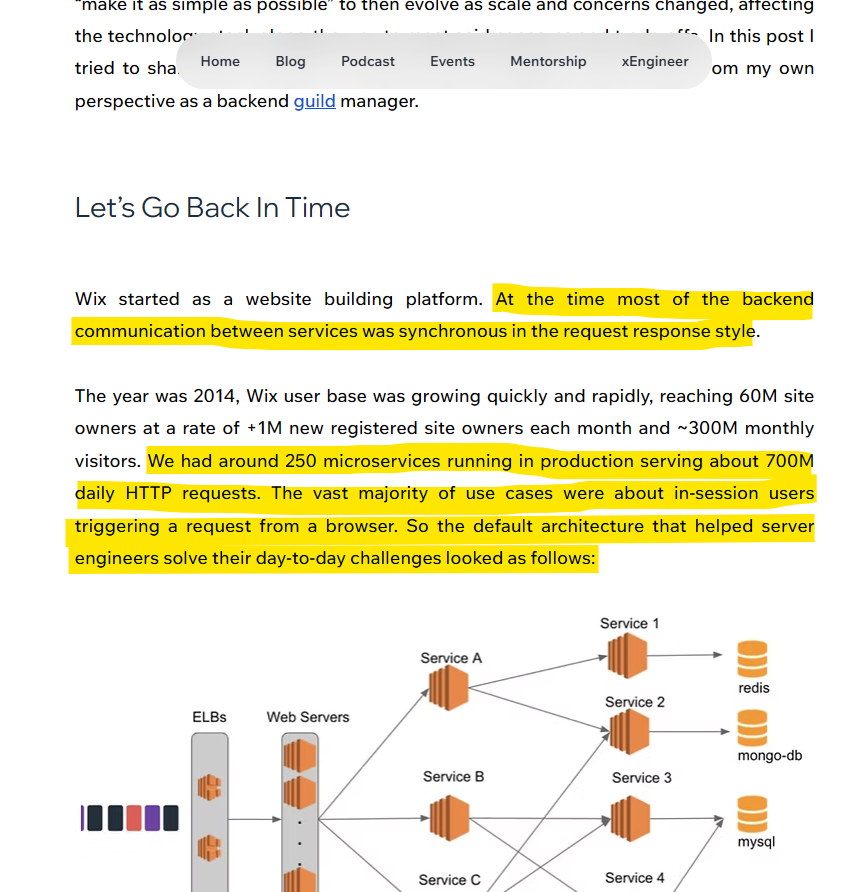
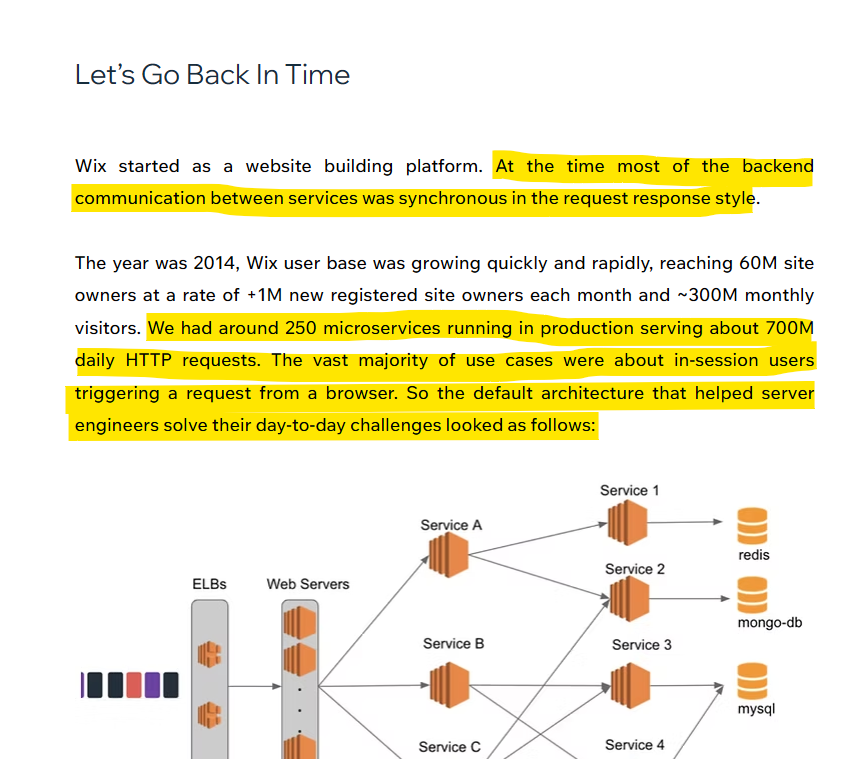
Agrego captura de crecimiento de productores, edito algunas capturas y ajusto el main.tex y referencias.bib

diff --git a/main.tex b/main.tex
@@ -1,5 +1,3 @@
-% FORM-IC-01 — Investigación individual: arquitecturas distribuidas en la industria
-% Caso: Wix — Arquitectura orientada a eventos (EDA) con Apache Kafka
 \documentclass[11pt,a4paper]{article}
 
 \usepackage[utf8]{inputenc}
@@ -16,7 +14,6 @@
 
 \begin{document}
 
-% ---------------- Carátula ----------------
 \begin{titlepage}
   \centering
   {\large Universidad Técnica Estatal de Quevedo\par}
@@ -37,7 +34,6 @@
   {\large Quevedo, noviembre de 2026\par}
 \end{titlepage}
 
-% ---------------- Análisis (1 página) ----------------
 \section*{Descripción del caso}
 Wix es una plataforma para crear sitios web que, con el tiempo, tuvo que adaptar su backend al crecimiento de sus usuarios. En 2014 tenía alrededor de 60 millones de propietarios de sitios y unos 250 microservicios en producción, que atendían cerca de 700 millones de peticiones HTTP al día. Años después, la plataforma llegó a unos 200 millones de propietarios, más de 2000 clústeres de microservicios y alrededor de 500 mil millones de peticiones diarias \cite{perez2021wix}. Este caso analiza cómo cambió la comunicación entre esos microservicios para soportar ese crecimiento.
 
@@ -45,7 +41,7 @@ Wix es una plataforma para crear sitios web que, con el tiempo, tuvo que adaptar
 Antes, la comunicación entre servicios era síncrona y seguía un patrón de orquestación: un servicio, como \textit{BookingService}, controlaba todo el flujo y llamaba a los demás en orden. Era fácil de entender y probar, pero dejaba a los servicios muy acoplados, ya que todos debían estar disponibles al mismo tiempo. Con más tráfico, una falla en un servicio se propagaba a los demás; por ejemplo, \textit{UsersService} llegó a quedarse sin memoria. Por eso, en 2015 Wix incorporó Apache Kafka como bus de mensajes y pasó a un modelo de coreografía, donde cada servicio reacciona a los eventos que le interesan \cite{perez2021wix}.
 
 \section*{Beneficios obtenidos}
-Al publicar eventos, el productor ya no depende de quién los consume, y eso aisló las fallas entre servicios. Kafka funciona como un \textit{buffer} que absorbe los picos de carga, y para escalar basta con agregar consumidores. Entre 2016 y 2021 los productores de Kafka crecieron unas 40 veces y los flujos asíncronos unas 30 veces en cinco años. Además, como Kafka guarda los eventos en un log, un equipo puede crear un nuevo grupo de consumidores para una funcionalidad sin tocar los servicios existentes \cite{perez2021wix}.
+Al publicar eventos, el productor ya no depende de quién los consume, y eso aisló las fallas entre servicios. Kafka funciona como un \textit{buffer} que absorbe los picos de carga, y para escalar basta con agregar consumidores. Entre 2016 y 2021 los productores de Kafka crecieron unas 40 veces. Además, como Kafka guarda los eventos en un log, un equipo puede crear un nuevo grupo de consumidores para una funcionalidad sin tocar los servicios existentes \cite{perez2021wix}.
 
 \section*{Desafíos y cómo los resolvió}
 El cambio trajo más complejidad: rastrear un flujo entre varios servicios es más difícil y los datos tardan en replicarse, por lo que Wix diseñó la interfaz para explicar esas demoras al usuario. Para los mensajes duplicados o fuera de orden, hizo que los consumidores fueran idempotentes. Como el bus se volvió un punto único de falla, creó un productor que guarda primero los eventos en disco local antes de enviarlos a Kafka \cite{perez2021wix}. Estos problemas de consistencia también aparecen como recurrentes en la industria \cite{laigner2021data}.
@@ -55,7 +51,6 @@ Para el PFC tomaría la comunicación por eventos en tareas que no necesitan res
 
 \newpage
 
-% ---------------- Evidencias de autoría ----------------
 \section*{Evidencias de autoría}
 
 \subsection*{Captura de la fuente principal}
@@ -77,8 +72,9 @@ Fragmentos subrayados de la fuente principal \cite{perez2021wix}.
 
 \begin{figure}[h]
   \centering
-  \includegraphics[width=0.8\textwidth]{03_cambio_a_kafka.png}\\[4pt]
-  \includegraphics[width=0.8\textwidth]{03b_cambio_a_kafka.png}
+  \includegraphics[width=0.6\textwidth]{03_cambio_a_kafka.png}\\[4pt]
+  \includegraphics[width=0.6\textwidth]{03b_cambio_a_kafka.png}\\[4pt]
+  \includegraphics[width=0.6\textwidth]{03c_cambio_a_kafka.png}
   \caption{Crecimiento de la plataforma y adopción de Apache Kafka.}
 \end{figure}
 
@@ -102,9 +98,8 @@ Fragmentos subrayados de la fuente principal \cite{perez2021wix}.
 Un ejemplo que conozco es GitHub Actions, que permite automatizar tareas a partir de eventos dentro de un repositorio. Cuando hago un \textit{push} para subir cambios, GitHub detecta ese evento y ejecuta automáticamente un \textit{workflow} que puede correr pruebas, revisar el código o desplegar la aplicación. También pueden activarse notificaciones e integraciones externas, si están configuradas. Lo interesante es que el \textit{push} no espera a que estas tareas terminen, porque cada una se ejecuta de forma independiente. Es la misma idea de coreografía que usa Wix: quien genera el evento no dirige a los demás, sino que cada parte reacciona por su cuenta.
 
 \subsection*{Declaración de uso de inteligencia artificial}
-En la elaboración de este trabajo se utilizó Claude (Anthropic) como apoyo para localizar la fuente principal del caso, mejorar la redacción de los apartados del análisis. Las referencias fueron verificadas por mi autor mediante sus DOI, y el contenido final fue revisado y ajustado por el autor, quien asume la responsabilidad de lo presentado.
+En la elaboración de este trabajo se utilizó Claude (Anthropic) como apoyo para localizar la fuente principal del caso y mejorar la redacción de los apartados del análisis. Las referencias fueron verificadas por mi mediante sus DOI, al igual que el contenido que fue revisado por mi.
 
-% ---------------- Referencias ----------------
 \printbibliography[title={Referencias}]
 
 \end{document}
